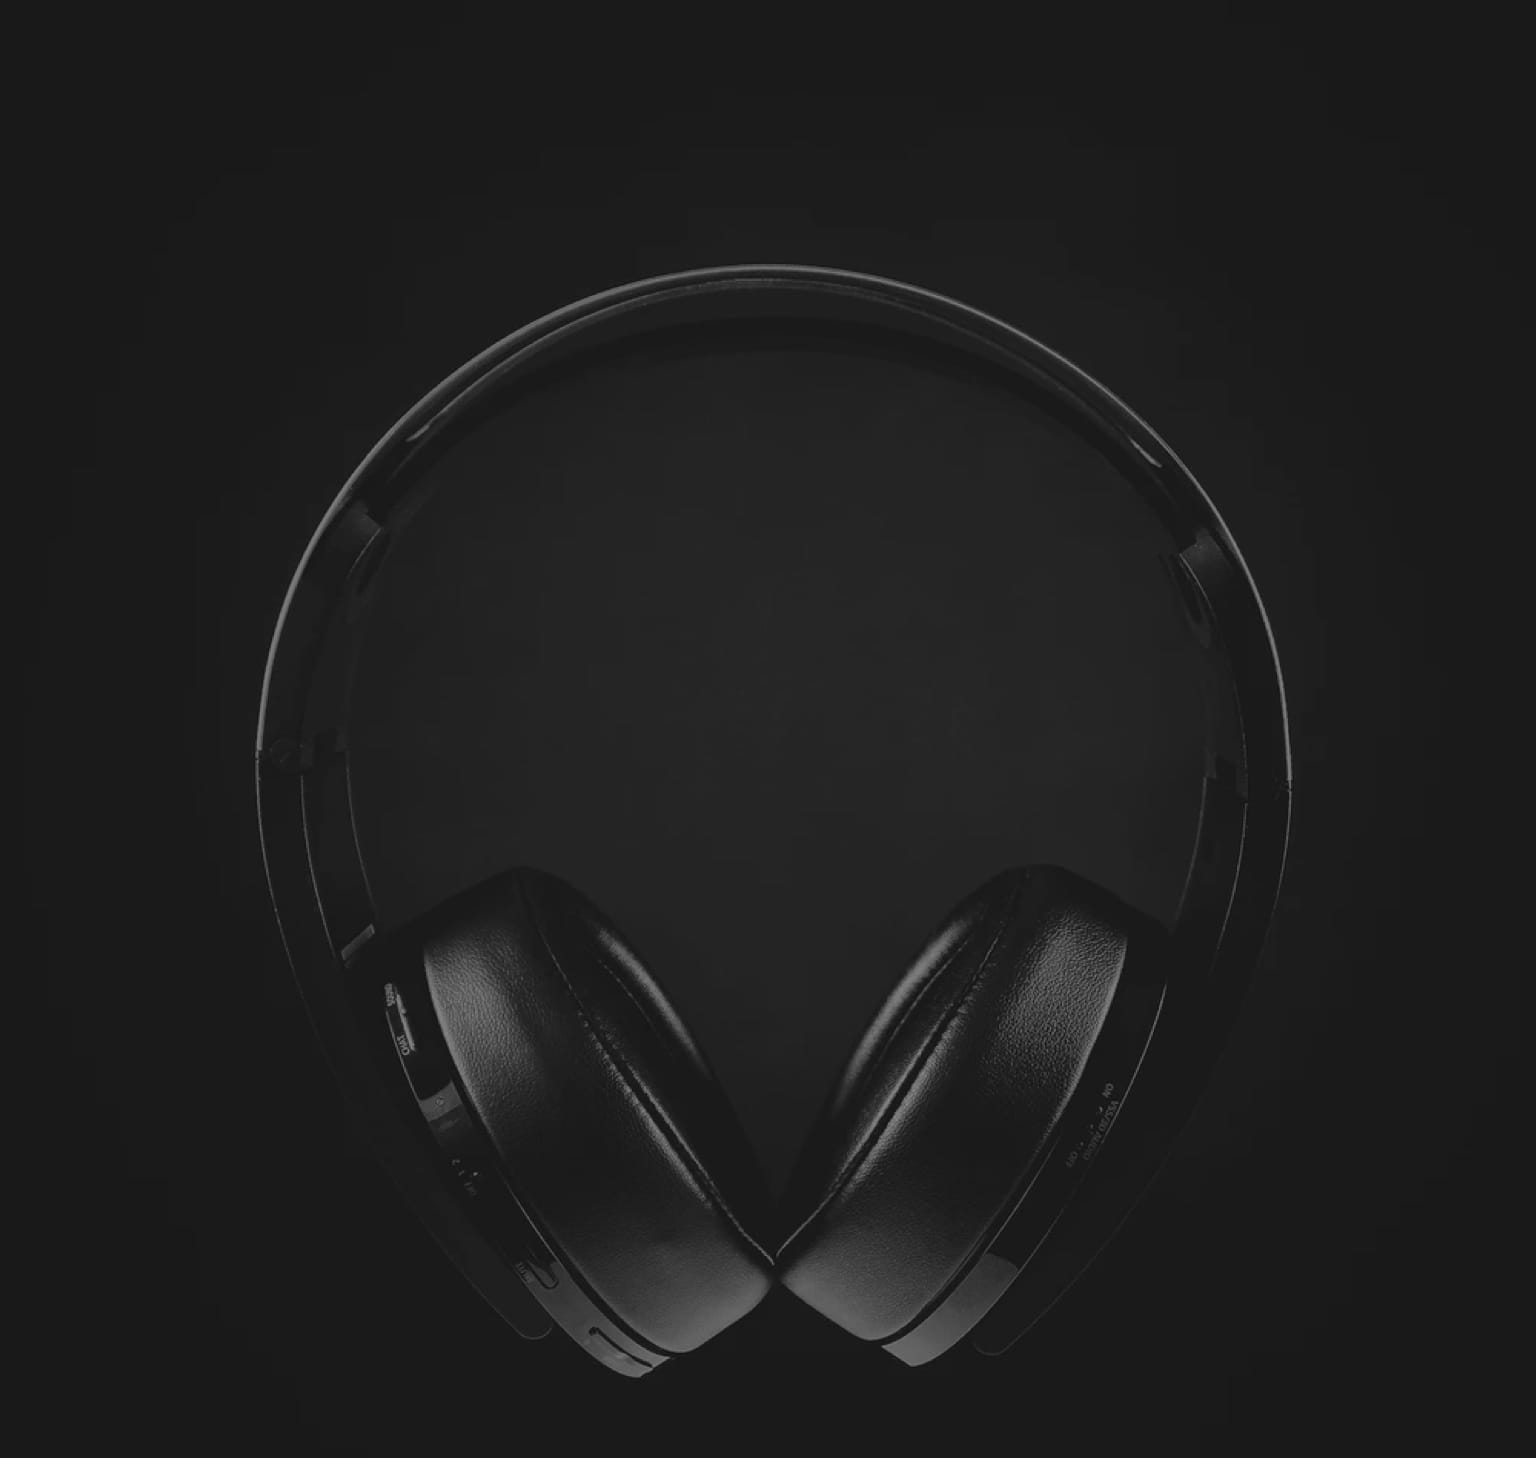
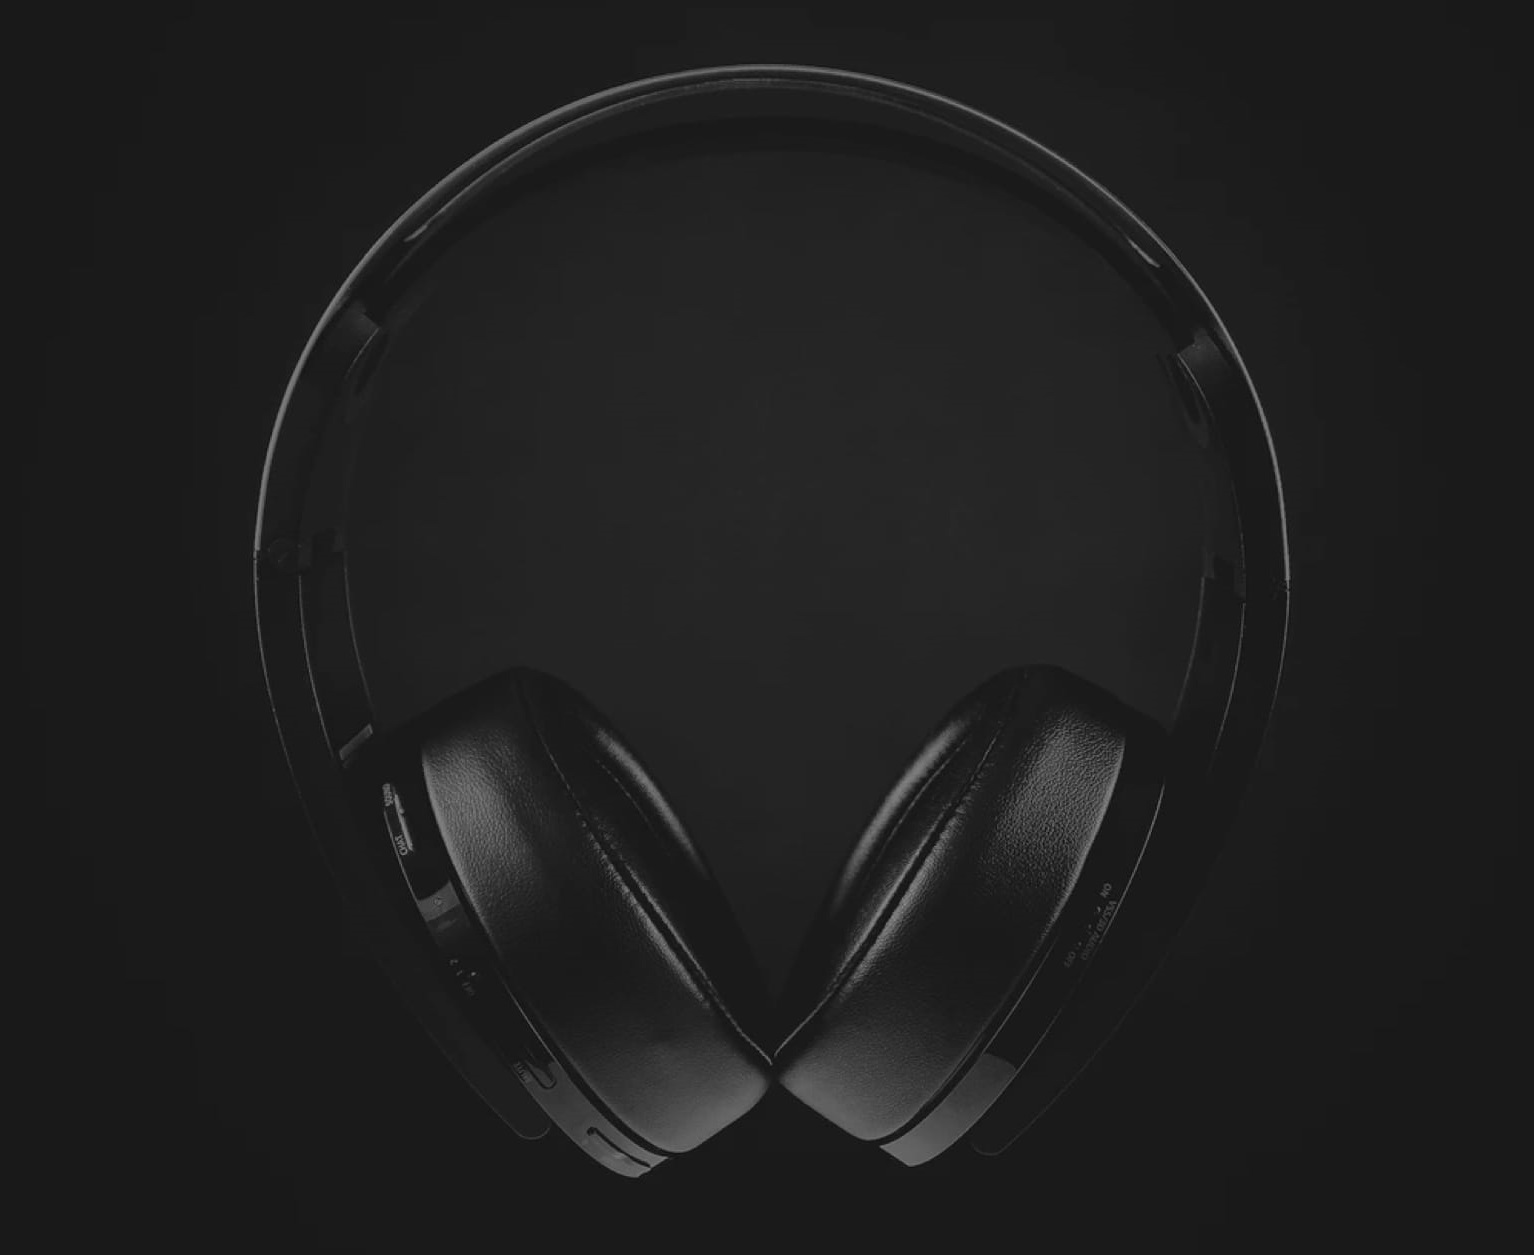
finish design of hero on tablet

diff --git a/src/app/page.module.scss b/src/app/page.module.scss
@@ -14,7 +14,6 @@
         position: absolute;
         width: 100%;
         height: 100%;
-
     }
 
     &__right{
@@ -22,6 +21,12 @@
         top: 0;
         object-fit: cover;
         margin: auto;
+
+        @include tablet{
+            max-width: unset;
+            width: 48rem;
+            height: 40rem;
+        }
     }
 
     &__new{
@@ -30,6 +35,10 @@
         opacity: 0.5;
         width: fit-content;
         margin: 6.75rem auto 0;
+
+        @include tablet{
+            margin-top: 7.875rem;
+        }
     }
 
     &__heading{
@@ -41,6 +50,12 @@
         letter-spacing: 1.286px;
         text-align: center;
         color: $white-00;
+
+        @include tablet{
+            @include heading-01;
+            margin-top: 1.5rem;
+            width: 25rem;
+        }
     }
 
     &__description{
